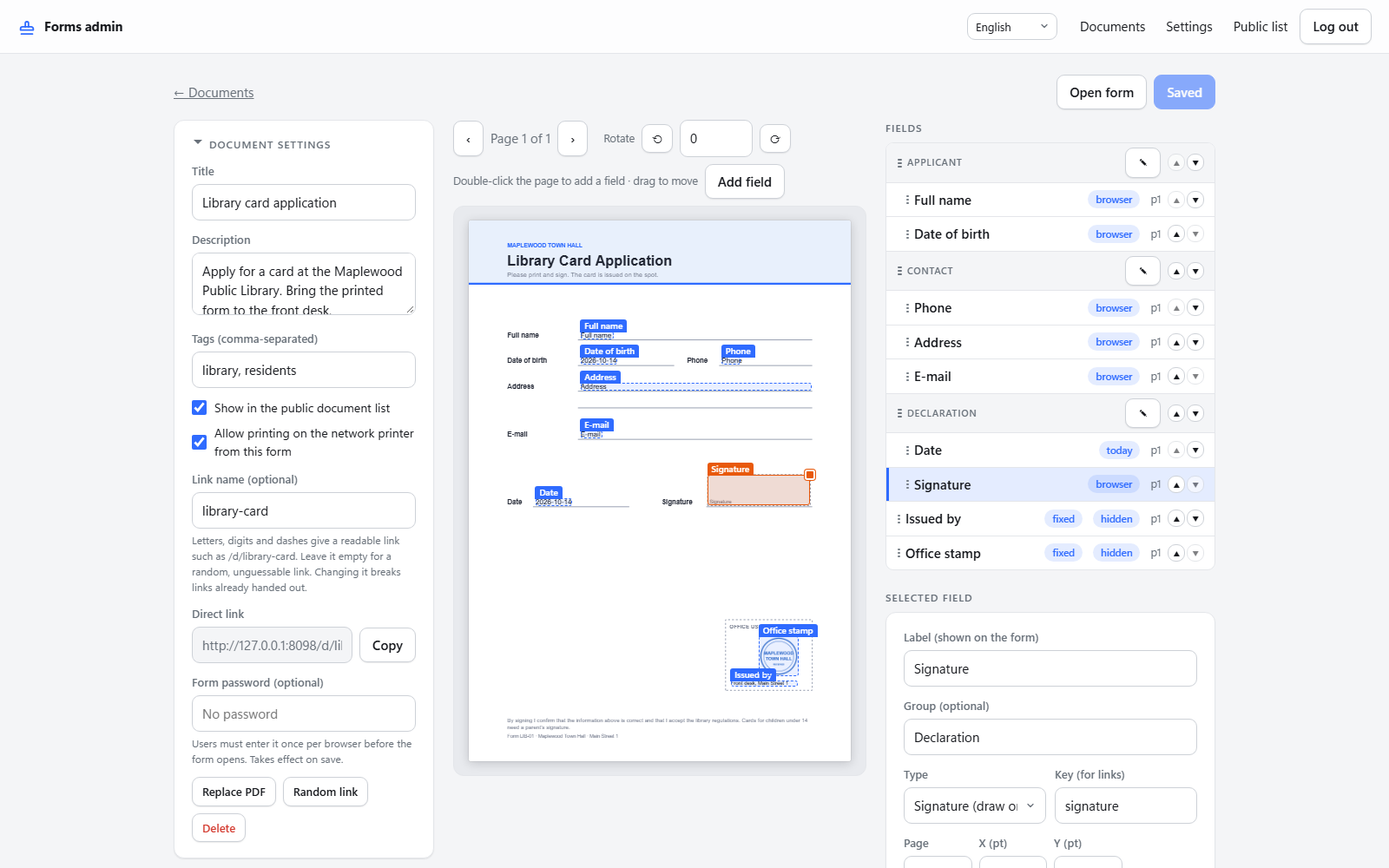
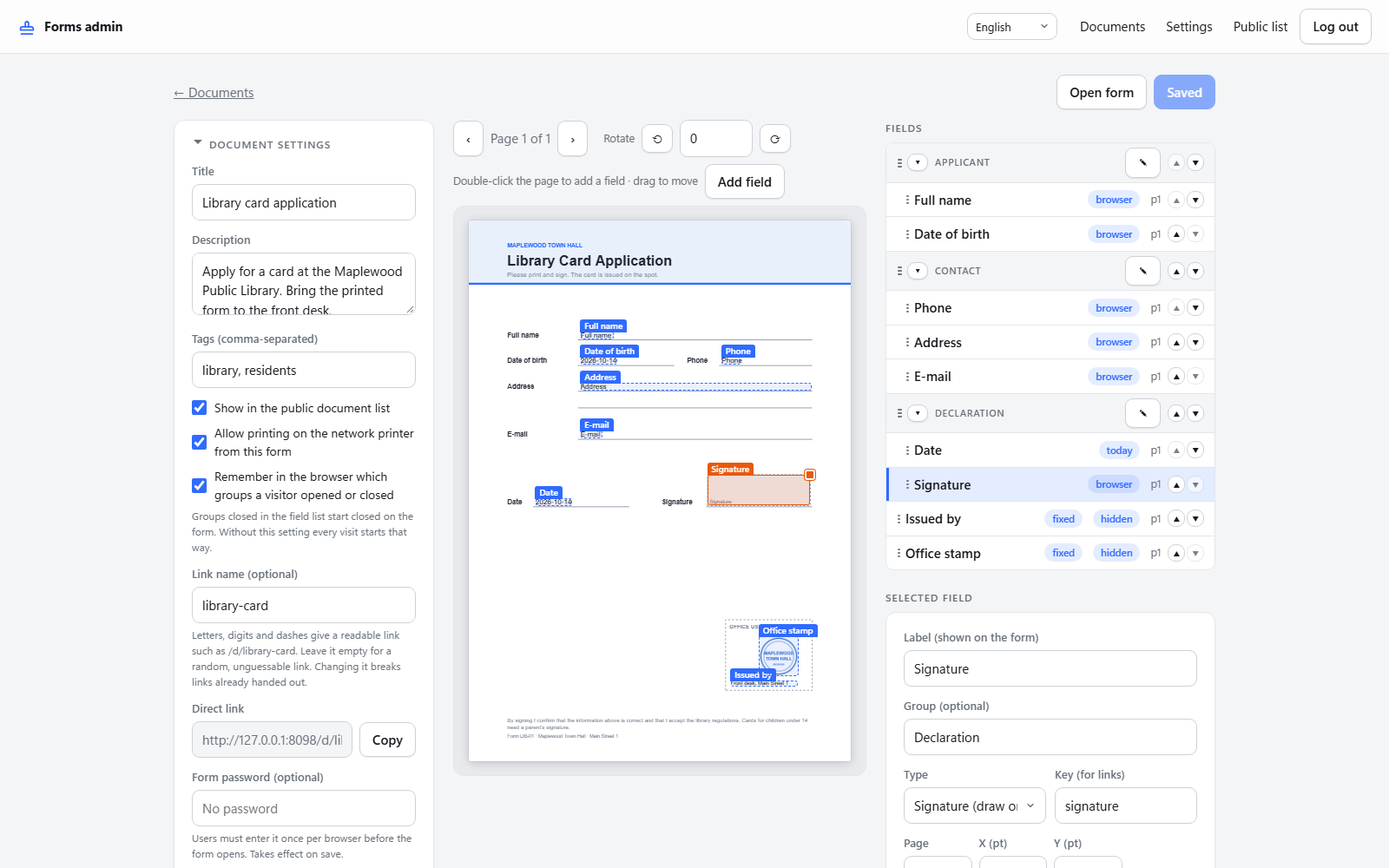
Foldable framed groups, group defaults per form, configurable retention
Groups on the form are framed blocks with a heading that folds and unfolds.
A group closed in the editor's field list starts closed on the form (stored
with the document); the per-form setting "Remember in the browser which
groups a visitor opened or closed" decides whether a visitor's own choice is
kept in their browser or every visit starts from the editor's defaults. A
folded group opens by itself when a required field in it is missing.

The number of days that remembered values stay in a visitor's browser is an
instance setting (30 by default) and the hints on the form show it.

Closes #59
Closes #60
Closes #61

diff --git a/stampfill.js b/stampfill.js
@@ -60,7 +60,7 @@ catch (e) {
   process.exit(1);
 }
 const rid = (n = 9) => crypto.randomBytes(n).toString('base64url');
-const DEFAULTS = { siteTitle: 'Forms', printerUrl: '', publicPrint: false, printButton: 'Print at home', language: 'en' };
+const DEFAULTS = { siteTitle: 'Forms', printerUrl: '', publicPrint: false, printButton: 'Print at home', language: 'en', rememberDays: 30 };
 const LANGS = ['en', 'de', 'tr', 'ar', 'ru', 'uk', 'el', 'pl']; // locales/<lang>.json; English is the source language
 const LOCALES = Object.fromEntries(LANGS.filter((l) => l !== 'en').map((l) => [l, fs.readFileSync(path.join(__dirname, 'locales', l + '.json'))]));
 let db = { secret: rid(32), auth: null, settings: { ...DEFAULTS }, docs: [] };
@@ -287,11 +287,14 @@ async function applyRotation(pdf, rotation) {
     pdf.removePage(i + 1);
   }
 }
+// groups that start folded on the form: names of groups that exist, each once
+const cleanCollapsed = (list, fields) => { const names = new Set(fields.map((f) => f.group).filter(Boolean)); return [...new Set((Array.isArray(list) ? list : []).filter((x) => typeof x === 'string').map((x) => str(x, 40).trim()).filter((x) => names.has(x)))]; };
 const cleanTags = (t) => [...new Set((Array.isArray(t) ? t : []).map((x) => str(x, 30).trim()).filter(Boolean))].slice(0, 20);
 const adminDoc = (d) => ({ ...d, password: undefined, protected: !!d.password });
 const publicDoc = (d, req) => ({
   title: d.title, description: d.description, tags: d.tags, siteTitle: db.settings.siteTitle,
   serverPrint: !!db.settings.printerUrl && d.serverPrint !== false && (db.settings.publicPrint || isAdmin(req)), printLabel: db.settings.printButton,
+  rememberDays: db.settings.rememberDays, collapsed: d.collapsed || [], rememberGroups: d.rememberGroups !== false,
   fields: d.fields.filter((f) => f.type !== 'static').map((f) => ({ key: f.key, label: f.label, group: f.group, type: f.type, required: f.required, hidden: f.hidden, prefill: f.prefill, value: f.prefill === 'instance' ? f.value : '' })),
 });
 async function inspectPdf(buf) {
@@ -587,7 +590,7 @@ async function route(req, res) {
       const b = await readJson(req), u = str(b.printerUrl, 500).trim();
       if (u && !/^(https?|ipps?):\/\/[^\s]+$/.test(u)) throw new HttpErr(400, 'Printer URL must start with http://, https://, ipp:// or ipps://');
       db.settings = { siteTitle: str(b.siteTitle, 60).trim() || 'Forms', printerUrl: u, publicPrint: !!b.publicPrint, printButton: str(b.printButton, 40).trim() || DEFAULTS.printButton,
-        language: LANGS.includes(b.language) ? b.language : 'en' }; save();
+        language: LANGS.includes(b.language) ? b.language : 'en', rememberDays: Math.round(num(b.rememberDays, 30, 1, 3650)) }; save();
       audit(req, 'settings.update', { printerUrl: u, publicPrint: db.settings.publicPrint });
     }
     if (m === 'GET' || m === 'PUT') return json(res, 200, db.settings);
@@ -614,7 +617,7 @@ async function route(req, res) {
     if (m === 'POST') {
       const buf = await readBody(req, MAX_PDF), pages = await inspectPdf(buf);
       const title = str(url.searchParams.get('title'), 120).trim() || 'Untitled';
-      const doc = { id: rid(8), slug: rid(10), title, description: '', tags: [], listed: false, serverPrint: true, password: null, pages, rotation: cleanRotation([], pages), fields: [], created: Date.now(), updated: Date.now() };
+      const doc = { id: rid(8), slug: rid(10), title, description: '', tags: [], listed: false, serverPrint: true, password: null, collapsed: [], rememberGroups: true, pages, rotation: cleanRotation([], pages), fields: [], created: Date.now(), updated: Date.now() };
       fs.writeFileSync(pdfPath(doc.id), buf, { mode: 0o600 }); db.docs.unshift(doc); save(); audit(req, 'doc.create', { doc: doc.id, title });
       return json(res, 200, adminDoc(doc));
     }
@@ -635,8 +638,9 @@ async function route(req, res) {
           if (pw && pw.length < 8) throw new HttpErr(400, 'The form password needs at least 8 characters');
           doc.password = pw ? await hashPwAsync(pw) : null; audit(req, pw ? 'doc.password.set' : 'doc.password.clear', { doc: doc.id });
         }
+        const fields = cleanFields(b.fields, doc.pages);
         Object.assign(doc, { title: str(b.title, 120).trim() || 'Untitled', description: str(b.description, 500).trim(), tags: cleanTags(b.tags), listed: !!b.listed, serverPrint: b.serverPrint !== false,
-          rotation: b.rotation !== undefined ? cleanRotation(b.rotation, doc.pages) : doc.rotation, fields: cleanFields(b.fields, doc.pages), updated: Date.now() });
+          rotation: b.rotation !== undefined ? cleanRotation(b.rotation, doc.pages) : doc.rotation, fields, collapsed: cleanCollapsed(b.collapsed, fields), rememberGroups: b.rememberGroups !== false, updated: Date.now() });
         save(); return json(res, 200, adminDoc(doc));
       }
       if (m === 'DELETE') {
@@ -669,6 +673,7 @@ function migrate() {
     doc.pages = Math.max(1, Math.round(num(doc.pages, 1, 1, 10000)));
     doc.fields = cleanFields(doc.fields, doc.pages); doc.rotation = cleanRotation(doc.rotation, doc.pages);
     if (doc.serverPrint === undefined) doc.serverPrint = true; if (doc.password === undefined) doc.password = null;
+    doc.collapsed = cleanCollapsed(doc.collapsed, doc.fields); if (doc.rememberGroups === undefined) doc.rememberGroups = true;
   }
   pruneImages(); save();
 }
@@ -695,13 +700,13 @@ if (require.main === module) {
   process.on('SIGTERM', shutdown); process.on('SIGINT', shutdown);
   start().catch((e) => { console.error(e.message); process.exit(1); });
 }
-module.exports = { start, server, db, DATA, IMAGES, IMG, LANGS, migrate, drawIcon, manifestFor, SW_JS, pdfCache, readTemplate, PDF_CACHE_MAX, AUDIT, AUDIT_MAX, audit, fails, authFails, pruneFails, imgDims, checkImage, ippParse, ippProbe, ippStatusText, keyOf, slugOf, fmtDate, toIso, cleanPrefill, cleanRotation, imgType, cleanFields, groupOrder, cleanTags, cleanValues, sampleValues, renderPdf, ippPrint, checkPw, hashPw, inspectPdf };
+module.exports = { start, server, db, DATA, IMAGES, IMG, LANGS, migrate, drawIcon, manifestFor, SW_JS, pdfCache, readTemplate, PDF_CACHE_MAX, AUDIT, AUDIT_MAX, audit, fails, authFails, pruneFails, imgDims, checkImage, ippParse, ippProbe, ippStatusText, keyOf, slugOf, fmtDate, toIso, cleanPrefill, cleanRotation, imgType, cleanFields, groupOrder, cleanCollapsed, cleanTags, cleanValues, sampleValues, renderPdf, ippPrint, checkPw, hashPw, inspectPdf };
 
 // ================================================================ front end
 // (client code below must not contain backticks or dollar-brace: it lives inside String.raw templates)
 const CSS = String.raw`
-:root{color-scheme:light dark;--bg:#f4f5f7;--card:#fff;--ink:#16181d;--mut:#687079;--line:#e4e6ea;--line2:#cdd1d7;--acc:#2f6bff;--acc-2:#1f57e6;--acc-ink:#fff;--acc-soft:rgba(47,107,255,.13);--bad:#d3372c;--bad-soft:rgba(211,55,44,.12);--ok:#1e8a4f;--paper:#e8eaee;--hdr:rgba(255,255,255,.82);--sh:0 1px 2px rgba(16,18,24,.06),0 1px 1px rgba(16,18,24,.03);--sh2:0 10px 28px rgba(16,18,24,.12),0 2px 6px rgba(16,18,24,.06);--r:12px;--rs:9px}
-@media(prefers-color-scheme:dark){:root{--bg:#111317;--card:#1a1d23;--ink:#e8eaee;--mut:#99a1ab;--line:#292e36;--line2:#3b414b;--acc:#6f9cff;--acc-2:#8ab0ff;--acc-ink:#0a1430;--acc-soft:rgba(111,156,255,.18);--bad:#ff7b70;--bad-soft:rgba(255,123,112,.16);--ok:#5fd08f;--paper:#0c0e12;--hdr:rgba(26,29,35,.82);--sh:0 1px 2px rgba(0,0,0,.45);--sh2:0 12px 32px rgba(0,0,0,.55)}}
+:root{color-scheme:light dark;--bg:#f4f5f7;--card:#fff;--ink:#16181d;--mut:#687079;--line:#e4e6ea;--line2:#cdd1d7;--acc:#2f6bff;--acc-2:#1f57e6;--acc-ink:#fff;--acc-soft:rgba(47,107,255,.13);--bad:#d3372c;--bad-soft:rgba(211,55,44,.12);--ok:#1e8a4f;--paper:#e8eaee;--hdr:rgba(255,255,255,.82);--sh:0 1px 2px rgba(16,18,24,.06),0 1px 1px rgba(16,18,24,.03);--sh2:0 10px 28px rgba(16,18,24,.12),0 2px 6px rgba(16,18,24,.06);--r:12px;--rs:9px;--grp:rgba(47,107,255,.05)}
+@media(prefers-color-scheme:dark){:root{--bg:#111317;--card:#1a1d23;--ink:#e8eaee;--mut:#99a1ab;--line:#292e36;--line2:#3b414b;--acc:#6f9cff;--acc-2:#8ab0ff;--acc-ink:#0a1430;--acc-soft:rgba(111,156,255,.18);--bad:#ff7b70;--bad-soft:rgba(255,123,112,.16);--ok:#5fd08f;--paper:#0c0e12;--hdr:rgba(26,29,35,.82);--sh:0 1px 2px rgba(0,0,0,.45);--sh2:0 12px 32px rgba(0,0,0,.55);--grp:rgba(111,156,255,.08)}}
 *{box-sizing:border-box}html{-webkit-text-size-adjust:100%;scroll-padding-top:72px}
 body{margin:0;background:var(--bg);color:var(--ink);font:15px/1.5 Inter,"Segoe UI Variable Text",system-ui,-apple-system,"Segoe UI",Roboto,sans-serif;-webkit-font-smoothing:antialiased}
 header{position:sticky;top:0;z-index:5;display:flex;gap:16px;align-items:center;padding:10px 20px;border-bottom:1px solid var(--line);background:var(--hdr);backdrop-filter:saturate(180%) blur(14px);-webkit-backdrop-filter:saturate(180%) blur(14px)}
@@ -780,7 +785,12 @@ details.panel[open]>summary::before{transform:rotate(90deg)}details.panel:not([o
 .fgroup{padding:5px 12px;font-size:11px;font-weight:600;text-transform:uppercase;letter-spacing:.06em;color:var(--mut);background:var(--bg);border-bottom:1px solid var(--line)}
 h2.fgroup{padding:0;background:none;border:0;margin:18px 0 2px;font-size:12px}
 .fitem.over,.flist .fgroup.over{box-shadow:inset 0 2px 0 var(--acc)}.flist .fgroup{display:flex;align-items:center;gap:8px}.flist .fgroup .gname{flex:1;overflow:hidden;text-overflow:ellipsis;white-space:nowrap}.flist .fgroup .grip{cursor:grab}.fitem.ing{padding-left:22px}
-.fsep{border:0;border-top:1px solid var(--line);margin:18px 0 4px}#installBtn{display:inline-flex;align-items:center;gap:6px;white-space:nowrap}#installBtn .ico{display:inline-flex}.grip{color:var(--mut);cursor:grab;font-size:13px;letter-spacing:-3px;user-select:none}
+.fgrp{border:1px solid var(--line2);border-radius:var(--rs);padding:2px 14px 14px;margin-top:16px;background:var(--grp)}.fgrp h2.fgroup{margin:0}.fgrp.closed{padding-bottom:2px}.fgrp.closed .gbody{display:none}
+.gtog{all:unset;box-sizing:border-box;cursor:pointer;display:flex;align-items:center;gap:9px;width:100%;padding:10px 0;font:inherit;font-size:12px;font-weight:600;text-transform:uppercase;letter-spacing:.06em;color:var(--mut)}
+.gtog:hover{color:var(--ink)}.gtog:focus-visible{outline:2px solid var(--acc);outline-offset:2px;border-radius:4px}
+.gtog::before{content:'';flex:none;width:7px;height:7px;border-right:1.7px solid currentColor;border-bottom:1.7px solid currentColor;transform:translateY(-2px) rotate(45deg);transition:transform .15s}
+.fgrp.closed .gtog::before{transform:rotate(-45deg)}[dir=rtl] .fgrp.closed .gtog::before{transform:rotate(135deg)}.gbody>div:first-child>label{margin-top:4px}
+.flist .fgroup .gfold{min-width:24px;font-size:14px;line-height:18px;padding:0 4px}.flist .fgroup.closed{border-bottom:1px solid var(--line)}#installBtn{display:inline-flex;align-items:center;gap:6px;white-space:nowrap}#installBtn .ico{display:inline-flex}.grip{color:var(--mut);cursor:grab;font-size:13px;letter-spacing:-3px;user-select:none}
 .ord{display:flex;gap:2px}.ord button.tiny{padding:0 5px;font-size:9px;line-height:18px;box-shadow:none}
 .fitem{display:flex;gap:8px;align-items:center;padding:8px 12px;border-bottom:1px solid var(--line);cursor:pointer;transition:background .12s}.fitem:hover{background:var(--bg)}
 .fitem:last-child{border-bottom:0}.fitem.on{background:var(--acc-soft);box-shadow:inset 3px 0 0 var(--acc)}.fitem b{flex:1;font-weight:500;overflow:hidden;text-overflow:ellipsis;white-space:nowrap}
@@ -943,7 +953,7 @@ async function formView() {
   }
   // values from the link: only #key=value, which never leaves the browser (a query string would reach server and proxy logs)
   const fromUrl = new URLSearchParams(location.hash.slice(1));
-  const LS = 'stampfill:', TTL = 30 * 86400000; // remembered values expire after 30 days
+  const LS = 'stampfill:', DAYS = doc.rememberDays || 30, TTL = DAYS * 86400000; // remembered values expire after the instance's number of days
   const IMG = t => t === 'image' || t === 'signature';
   const store = {
     get(k) {
@@ -962,16 +972,24 @@ async function formView() {
   const get = f => f.type === 'checkbox' ? (inputs[f.key].checked ? '1' : '') : inputs[f.key].value;
   const put = (f, v) => { if (IMG(f.type)) inputs[f.key].set(v); else if (f.type === 'checkbox') inputs[f.key].checked = !!v && v !== '0' && v !== 'false'; else inputs[f.key].value = f.type === 'date' ? toIso(v) : v; };
   const values = () => Object.fromEntries(doc.fields.map(f => [f.key, get(f)]));
-  const HINT = { browser: t('Remembered on this device for 30 days'), url: t('Can be carried in a link'), instance: '', today: t("Today's date") };
+  const HINT = { browser: t('Remembered on this device for {n} days').replace('{n}', DAYS), url: t('Can be carried in a link'), instance: '', today: t("Today's date") };
   const today = () => { const d = new Date(); return new Date(d.getTime() - d.getTimezoneOffset() * 60000).toISOString().slice(0, 10); };
   const toIso = v => { const m = /^(\d{1,2})[./-](\d{1,2})[./-](\d{4})$/.exec(String(v).trim()); return m ? m[3] + '-' + m[2].padStart(2, '0') + '-' + m[1].padStart(2, '0') : v; };
 
   const form = h('div', { class: 'panel' });
-  let lastGroup = '';
-  const groupHead = f => { if (f.hidden) return; const g = f.group || ''; if (g === lastGroup) return; lastGroup = g; form.append(g ? h('h2', { class: 'fgroup' }, g) : h('hr', { class: 'fsep' })); }; // a heading per group, a rule where loose fields follow one
+  // groups are framed, foldable blocks; a group starts folded when the editor says so, unless this browser remembers the visitor's own choice
+  const remembered = doc.rememberGroups ? store.get('groups:' + slug) : null, gmem = remembered && typeof remembered === 'object' ? remembered : {};
+  const section = g => {
+    const sec = h('section', { class: 'fgrp' + ((g in gmem ? gmem[g] : doc.collapsed.includes(g)) ? ' closed' : '') }), body = h('div', { class: 'gbody' });
+    const tog = h('button', { type: 'button', class: 'gtog', onclick: () => { const closed = sec.classList.toggle('closed'); tog.setAttribute('aria-expanded', String(!closed)); if (doc.rememberGroups) { gmem[g] = closed; store.set('groups:' + slug, gmem); } } }, g);
+    tog.setAttribute('aria-expanded', String(!sec.classList.contains('closed')));
+    sec.append(h('h2', { class: 'fgroup' }, tog), body); form.append(sec); return body;
+  };
+  let box = form, boxGroup = '';
+  const place = f => { if (f.hidden) return box; const g = f.group || ''; if (g !== boxGroup) { boxGroup = g; box = g ? section(g) : form; } return box; }; // hidden fields never open a group
   for (const f of doc.fields) {
-    groupHead(f);
-    if (IMG(f.type)) { form.append(rows[f.key] = imageRow(f)); continue; }
+    const at = place(f);
+    if (IMG(f.type)) { at.append(rows[f.key] = imageRow(f)); continue; }
     const inp = inputs[f.key] = f.type === 'textarea' ? h('textarea', { rows: 3 }) : h('input', { type: f.type === 'checkbox' ? 'checkbox' : f.type === 'date' ? 'date' : 'text' });
     inp.id = 'f_' + f.key;
     const saved = f.prefill === 'browser' ? store.get(f.key) : null;
@@ -981,7 +999,7 @@ async function formView() {
     rows[f.key] = f.type === 'checkbox'
       ? h('div', {}, h('label', { class: 'chk', style: 'margin-top:12px' }, inp, name), HINT[f.prefill] && h('div', { class: 'hint' }, HINT[f.prefill]))
       : h('div', {}, h('label', { htmlFor: inp.id }, name), inp, HINT[f.prefill] && h('div', { class: 'hint' }, HINT[f.prefill]));
-    form.append(rows[f.key]);
+    at.append(rows[f.key]);
   }
   for (const f of doc.fields) if (f.hidden && rows[f.key]) rows[f.key].style.display = 'none'; // hidden fields keep their value and are still printed
   if (doc.fields.length && doc.fields.every(f => f.hidden)) form.append(h('p', { class: 'muted' }, t('Nothing to fill in here — just print or download.')));
@@ -1004,7 +1022,7 @@ async function formView() {
     st.set(saved || '');
     const hint = f.prefill === 'instance' && f.value ? t('A default image is provided; you can replace it') : f.prefill === 'browser' ? '' : HINT[f.prefill];
     return h('div', {}, h('label', { htmlFor: file.id }, f.label + (f.required ? ' *' : '')), h('div', { class: 'imgbox' }, thumb, h('div', { class: 'row' }, draw, pick, clear, file)),
-      rem && h('label', { class: 'chk small', style: 'margin-top:6px' }, rem, t('Remember on this device (30 days)')), hint && h('div', { class: 'hint' }, hint));
+      rem && h('label', { class: 'chk small', style: 'margin-top:6px' }, rem, t('Remember on this device ({n} days)').replace('{n}', DAYS)), hint && h('div', { class: 'hint' }, hint));
   }
   // a drawing pad for signatures: pointer and touch, smoothed strokes, trimmed to the ink with a transparent background
   function sigPad(done) {
@@ -1058,7 +1076,7 @@ async function formView() {
   function schedule() { clearTimeout(timer); timer = setTimeout(() => refresh().catch(fail), 200); }
   function complete() {
     const miss = doc.fields.filter(f => f.required && !f.hidden && !get(f) && !(IMG(f.type) && f.prefill === 'instance' && f.value));
-    miss.forEach(f => rows[f.key].classList.add('bad'));
+    miss.forEach(f => { rows[f.key].classList.add('bad'); const sec = rows[f.key].closest('.fgrp.closed'); if (sec) sec.querySelector('.gtog').click(); }); // a folded group opens to show what is missing
     if (miss.length) { toast(t('Please fill in: ') + miss.map(f => f.label).join(', '), true); inputs[miss[0].key].focus(); }
     return !miss.length;
   }
@@ -1199,12 +1217,15 @@ async function settingsView() {
   const title = h('input', { type: 'text', value: s.siteTitle }), purl = h('input', { type: 'url', value: s.printerUrl, placeholder: 'http://cups-host:631/printers/NAME' });
   const pub = h('input', { type: 'checkbox', checked: s.publicPrint }), pbtn = h('input', { type: 'text', value: s.printButton, placeholder: 'Print at home', maxLength: 40 });
   const ptest = h('div', { class: 'hint', id: 'ptest' });
+  const remDays = h('input', { type: 'number', id: 'remDays', min: 1, max: 3650, step: 1, value: s.rememberDays || 30, style: 'width:140px' });
   const langSel = h('select', { id: 'defLang' }, Object.entries(LANGS).map(([k, n]) => h('option', { value: k, selected: (s.language || 'en') === k }, n)));
   const cur = h('input', { type: 'password', autocomplete: 'current-password' }), nxt = h('input', { type: 'password', autocomplete: 'new-password' });
   app.append(h('h1', {}, t('Settings')), h('div', { class: 'panel', style: 'max-width:560px' },
     h('label', {}, t('Site title')), title,
     h('label', {}, t('Default language')), langSel,
     h('div', { class: 'hint' }, t('Used when a visitor\'s browser language is not available. Everyone can switch languages in the header.')),
+    h('label', {}, t('Days remembered values are kept in the browser')), remDays,
+    h('div', { class: 'hint' }, t('Values a form remembers on a device expire after this many days; 30 by default.')),
     h('label', {}, t('Network printer (IPP / CUPS URL, optional)')), h('div', { class: 'row' }, h('div', { class: 'grow' }, purl), h('button', { onclick: async e => {
       const b = e.currentTarget; b.disabled = true; ptest.className = 'hint'; ptest.textContent = t('Asking the printer…');
       try {
@@ -1218,7 +1239,7 @@ async function settingsView() {
     h('div', { class: 'hint' }, t('Adds a button to every form that prints on this printer from the server. The printer must accept PDF; a CUPS queue converts for printers that do not. Each document can switch the button off.')),
     h('label', {}, t('Label of that button')), pbtn,
     h('label', { class: 'chk', style: 'margin-top:12px' }, pub, t('Let everyone with a document link use this printer (otherwise only while logged in as admin)')),
-    h('div', { style: 'margin-top:14px' }, h('button', { class: 'pri', onclick: async () => { try { await api('PUT', '/api/admin/settings', { siteTitle: title.value, printerUrl: purl.value, publicPrint: pub.checked, printButton: pbtn.value, language: langSel.value }); toast(t('Saved')); } catch (e) { fail(e); } } }, t('Save settings')))),
+    h('div', { style: 'margin-top:14px' }, h('button', { class: 'pri', onclick: async () => { try { await api('PUT', '/api/admin/settings', { siteTitle: title.value, printerUrl: purl.value, publicPrint: pub.checked, printButton: pbtn.value, language: langSel.value, rememberDays: remDays.value }); toast(t('Saved')); } catch (e) { fail(e); } } }, t('Save settings')))),
     h('h2', {}, t('Sessions')),
     h('div', { class: 'panel', style: 'max-width:560px' },
       h('p', { class: 'muted small', style: 'margin:0 0 10px' }, t('Admin sessions last 12 hours of inactivity. Signing out everywhere also closes every unlocked form in every browser.')),
@@ -1319,6 +1340,7 @@ async function editView(id) {
   const readable = s => /^[a-z0-9-]+$/.test(s) ? s : ''; let slugInit = readable(d.slug); // random links are not shown as a name
   const slugIn = h('input', { type: 'text', id: 'slugIn', value: slugInit, spellcheck: false, placeholder: t('empty = random link'), oninput: () => { link.value = location.origin + '/d/' + (slugOf(slugIn.value) || '(random)'); mark(); } });
   const allowPrint = h('input', { type: 'checkbox', checked: d.serverPrint !== false, onchange: mark });
+  const rememberGroups = h('input', { type: 'checkbox', checked: d.rememberGroups !== false, onchange: mark });
   let dropPw = false;
   const pwIn = h('input', { type: 'text', autocomplete: 'off', spellcheck: false, placeholder: d.protected ? t('Password set — type a new one to change it') : t('No password'), oninput: () => { dropPw = false; mark(); } });
   const pwDrop = h('button', { class: 'small', style: d.protected ? '' : 'display:none', onclick: () => { dropPw = true; pwIn.value = ''; pwIn.placeholder = t('Password will be removed on save'); mark(); } }, t('Remove'));
@@ -1333,7 +1355,7 @@ async function editView(id) {
   } });
   async function save() {
     try {
-      const body = { title: title.value, description: desc.value, tags: tags.value.split(','), listed: listed.checked, serverPrint: allowPrint.checked, rotation: d.rotation, fields: d.fields };
+      const body = { title: title.value, description: desc.value, tags: tags.value.split(','), listed: listed.checked, serverPrint: allowPrint.checked, rotation: d.rotation, fields: d.fields, collapsed: d.collapsed || [], rememberGroups: rememberGroups.checked };
       if (slugIn.value !== slugInit) body.slug = slugIn.value;
       if (dropPw) body.password = ''; else if (pwIn.value) body.password = pwIn.value;
       d = await api('PUT', '/api/admin/docs/' + id, body);
@@ -1351,7 +1373,7 @@ async function editView(id) {
     const rest = d.fields.filter(x => x !== f); f.group = group; rest.splice(rest.indexOf(before), 0, f); d.fields = rest; commit(blocks());
   };
   const dropGroup = (g, beforeBlock) => { const bs = blocks(), from = bs.findIndex(b => b[0].group === g); if (from < 0 || bs[from] === beforeBlock) return; const [b] = bs.splice(from, 1); bs.splice(bs.indexOf(beforeBlock), 0, b); commit(bs); };
-  const renameGroup = (g) => { const v = prompt(t('Group name (empty removes the group)'), g); if (v == null) return; d.fields.forEach(f => { if (f.group === g) f.group = v.trim().slice(0, 40); }); commit(blocks()); };
+  const renameGroup = (g) => { const r = prompt(t('Group name (empty removes the group)'), g); if (r == null) return; const v = r.trim().slice(0, 40); d.fields.forEach(f => { if (f.group === g) f.group = v; }); d.collapsed = (d.collapsed || []).map(x => x === g ? v : x).filter(Boolean); commit(blocks()); };
   const dnd = (onDrop) => ({ // drop target behaviour shared by field rows and group headings
     ondragover: e => { e.preventDefault(); e.dataTransfer.dropEffect = 'move'; e.currentTarget.classList.add('over'); },
     ondragleave: e => e.currentTarget.classList.remove('over'),
@@ -1363,12 +1385,16 @@ async function editView(id) {
     const items = [], bs = blocks();
     bs.forEach((b, bi) => {
       const g = b[0].group || '', grouped = !!g;
-      if (grouped) items.push(h('div', { class: 'fgroup', draggable: true, ondragstart: dragStart({ group: g }), ...dnd(dg => dg.field ? dropField(dg.field, b[0], g) : dropGroup(dg.group, b)) },
-        h('span', { class: 'grip', title: t('Drag to reorder') }, '⋮⋮'), h('span', { class: 'gname' }, g),
+      const closed = grouped && (d.collapsed || []).includes(g);
+      if (grouped) items.push(h('div', { class: 'fgroup' + (closed ? ' closed' : ''), draggable: true, ondragstart: dragStart({ group: g }), ...dnd(dg => dg.field ? dropField(dg.field, b[0], g) : dropGroup(dg.group, b)) },
+        h('span', { class: 'grip', title: t('Drag to reorder') }, '⋮⋮'),
+        h('button', { class: 'tiny gfold', title: t('Closed groups start closed on the form'), 'aria-expanded': String(!closed), onclick: () => { d.collapsed = closed ? d.collapsed.filter(x => x !== g) : [...(d.collapsed || []), g]; mark(); flist(); } }, closed ? '▸' : '▾'),
+        h('span', { class: 'gname' }, g), closed && h('span', { class: 'muted small' }, '(' + b.length + ')'),
         h('button', { class: 'tiny', title: t('Rename group'), onclick: () => renameGroup(g) }, '✎'),
         h('span', { class: 'ord' },
           h('button', { class: 'tiny', title: t('Move group up'), disabled: bi === 0, onclick: () => moveBlock(bi, -1) }, '▲'),
           h('button', { class: 'tiny', title: t('Move group down'), disabled: bi === bs.length - 1, onclick: () => moveBlock(bi, 1) }, '▼'))));
+      if (closed) return; // folded in the list as well
       b.forEach((f, i) => {
         const up = grouped ? i > 0 : bi > 0, down = grouped ? i < b.length - 1 : bi < bs.length - 1; // grouped fields move within their group, loose ones past whole groups
         const mv = delta => grouped ? moveField(bi, i, delta) : moveBlock(bi, delta);
@@ -1446,6 +1472,8 @@ async function editView(id) {
           h('label', {}, t('Title')), title, h('label', {}, t('Description')), desc, h('label', {}, t('Tags (comma-separated)')), tags,
           h('label', { class: 'chk', style: 'margin-top:12px' }, listed, t('Show in the public document list')),
           h('label', { class: 'chk', style: 'margin-top:8px' }, allowPrint, t('Allow printing on the network printer from this form')),
+          h('label', { class: 'chk', style: 'margin-top:8px' }, rememberGroups, t('Remember in the browser which groups a visitor opened or closed')),
+          h('div', { class: 'hint' }, t('Groups closed in the field list start closed on the form. Without this setting every visit starts that way.')),
           h('label', {}, t('Link name (optional)')), slugIn,
           h('div', { class: 'hint' }, t('Letters, digits and dashes give a readable link such as /d/library-card. Leave it empty for a random, unguessable link. Changing it breaks links already handed out.')),
           h('label', {}, t('Direct link')), h('div', { class: 'row' }, h('div', { class: 'grow' }, link), h('button', { onclick: () => copyText(link.value) }, t('Copy'))),

diff --git a/test/e2e/stampfill.spec.js b/test/e2e/stampfill.spec.js
@@ -200,10 +200,13 @@ test('fields can be grouped and reordered; groups are blocks that move as one', 
   await expect(admin.locator('.flist .fgroup .gname')).toHaveText(['Applicant', 'Sign-off']);
   dialogAnswer = 'Consent'; await heading('Sign-off').locator('button[title="Rename group"]').click(); dialogAnswer = 'accept';
   await expect(admin.locator('.flist .fgroup .gname')).toHaveText(['Applicant', 'Consent']);
+  await heading('Consent').locator('button.gfold').click(); // folded here = starts folded on the form
+  await expect(item('Signature')).toHaveCount(0); await expect(heading('Consent')).toContainText('(2)');
   await expect(admin.locator('button.pri')).toHaveText('Save changes');
   await admin.click('button.pri'); await expect(admin.locator('button.pri')).toHaveText('Saved');
   await admin.reload(); await expect(admin.locator('.mk')).toHaveCount(10);
   expect((await order()).slice(0, 2)).toEqual(['Full name', 'Address']); // the order is saved
+  await expect(heading('Consent')).toHaveClass(/closed/); // and so is the fold
 });
 
 test('admin saves metadata and gets a direct link', async () => {
@@ -268,6 +271,7 @@ test('admin configures the network printer', async () => {
   await expect(admin.locator('#ptest')).toContainText('Mock IPP printer — idle');
   await expect(admin.locator('#ptest')).toContainText('Takes PDF');
   await admin.fill('input[placeholder="Print at home"]', 'Print at school');
+  await admin.fill('#remDays', '45');
   await admin.locator('label.chk input').check();
   await admin.click('button.pri'); await expect(admin.locator('#toast')).toHaveText('Saved');
   await shot(admin, '3-settings');
@@ -315,7 +319,8 @@ test('form prefills from the link and from fixed values, validates required fiel
   await expect(user.locator('#f_footer')).toHaveCount(0); // fixed text has no input
   await expect(user.locator('.panel label')).toHaveCount(10); // 9 fields plus "Remember on this device" of the signature
   await expect(user.locator('.panel h2.fgroup')).toHaveText(['Applicant', 'Consent']); // group headings in field order
-  await expect(user.locator('.panel hr.fsep')).toHaveCount(1); // a rule where loose fields follow a group
+  await expect(user.locator('.fgrp')).toHaveCount(2); await expect(user.locator('.fgrp.closed h2')).toHaveText('Consent'); // framed; folded as the editor says
+  await expect(user.locator('#f_full_name ~ .hint')).toHaveText('Remembered on this device for 45 days'); // the retention from Settings
   expect(await user.locator('.panel label:not(.chk)').allTextContents()).toEqual(expect.arrayContaining(['Full name *', 'Address']));
   await expect(user.locator('.panel label').first()).toHaveText('Full name *');
   await expect(user.locator('input.remember')).not.toBeChecked(); // pictures are not remembered unless asked
@@ -354,9 +359,12 @@ test('form prefills from the link and from fixed values, validates required fiel
   await expect(user.locator('.imgbox:has(#f_stamp) .thumb')).toBeVisible(); // the admin's default stamp
   await expect(user.getByText('A default image is provided')).toBeVisible();
   await expect(user.locator('#f_full_name')).toHaveValue('');
-  await user.click('button.pri'); // Print with the required field empty
+  await user.locator('.fgrp', { hasText: 'Applicant' }).locator('.gtog').click(); await expect(user.locator('.fgrp.closed')).toHaveCount(2);
+  await user.click('button.pri'); // Print with the required field empty, inside a folded group
   await expect(user.locator('#toast.bad')).toContainText('Please fill in: Full name');
-  await expect(user.locator('#f_full_name')).toBeFocused();
+  await expect(user.locator('#f_full_name')).toBeFocused(); await expect(user.locator('.fgrp.closed')).toHaveCount(1); // the group opened to show it
+  await user.locator('.fgrp.closed .gtog').click(); await expect(user.locator('.fgrp.closed')).toHaveCount(0); // open "Consent" for the signature
+  await expect(user.locator('label.chk.small')).toContainText('(45 days)');
   await settle(user, async () => {
     await user.fill('#f_full_name', 'Jürgen Müller-Weiß'); await user.fill('#f_date', '2026-10-13');
     await user.fill('#f_address', 'Hauptstraße 12\n74321 Bietigheim-Bissingen');
@@ -409,6 +417,7 @@ test('"Copy link with values" carries only URL-prefill fields', async () => {
 test('browser-remembered values survive a reload, link values do not', async () => {
   await user.goto(link);
   await expect(user.locator('.preview canvas')).toBeVisible();
+  await expect(user.locator('.fgrp.closed')).toHaveCount(0); // the opened groups are remembered in this browser too
   await expect(user.locator('#f_full_name')).toHaveValue('Jürgen Müller-Weiß');
   await expect(user.locator('#f_address')).toHaveValue(/74321/);
   await expect(user.locator('#f_reference')).toHaveValue('');

diff --git a/test/unit/api.test.js b/test/unit/api.test.js
@@ -352,6 +352,19 @@ test('the audit log records admin actions and print jobs without form values', a
   assert.ok(log.every((e) => e.t && e.ip));
 });
 
+test('group folding and the retention period round-trip and reach the form', async () => {
+  const put = async (rememberDays) => (await (await call('PUT', '/api/admin/settings', { siteTitle: 'My forms', rememberDays })).json()).rememberDays;
+  assert.equal(await put('x'), 30, 'default'); assert.equal(await put(99999), 3650, 'clamped'); assert.equal(await put(45.4), 45);
+  const d = await (await call('POST', '/api/admin/docs?title=Folded', SAMPLE)).json(); assert.deepEqual(d.collapsed, []); assert.equal(d.rememberGroups, true);
+  const fields = [{ label: 'A', group: 'One' }, { label: 'B', group: 'Two' }, { label: 'C' }];
+  const u = await (await call('PUT', '/api/admin/docs/' + d.id, { ...d, fields, collapsed: ['Two', 'Gone', 'Two', 7], rememberGroups: false })).json();
+  assert.deepEqual(u.collapsed, ['Two'], 'only groups that exist, each once'); assert.equal(u.rememberGroups, false);
+  const pub = await (await fetch(base + '/api/d/' + u.slug)).json();
+  assert.deepEqual(pub.collapsed, ['Two']); assert.equal(pub.rememberGroups, false); assert.equal(pub.rememberDays, 45);
+  const back = await (await call('PUT', '/api/admin/docs/' + d.id, { ...d })).json(); assert.deepEqual(back.collapsed, []); assert.equal(back.rememberGroups, true, 'defaults when absent');
+  await call('DELETE', '/api/admin/docs/' + d.id);
+});
+
 test('logout clears the session; repeated failures are rate limited per client IP', async () => {
   const r = await call('POST', '/api/logout'); assert.match(r.headers.get('set-cookie'), /Max-Age=0/);
   cookie = ''; assert.equal((await call('GET', '/api/admin/me')).status, 401);

diff --git a/test/unit/migrate.test.js b/test/unit/migrate.test.js
@@ -79,3 +79,8 @@ test('documents saved by 1.1.0 with scattered group members are reordered into b
   assert.deepEqual(doc.fields.map((f) => f.key), ['g1aa', 'g1bb', 'loose']);
   doc.fields = was; app.migrate();
 });
+
+test('older documents get the group folding defaults and the retention default', () => {
+  assert.equal(app.db.settings.rememberDays, 30);
+  for (const d of app.db.docs) { assert.deepEqual(d.collapsed, []); assert.equal(d.rememberGroups, true); }
+});

diff --git a/CHANGELOG.md b/CHANGELOG.md
@@ -21,6 +21,12 @@ All notable changes to this project are documented here. The format follows
 ### Changed
 - Fields of one group are always kept together, at the position of the group's first field.
   Existing documents are reordered that way on start; the relative order within a group is kept.
+- Groups on the form are framed blocks that fold and unfold. A group closed in the editor's field
+  list starts closed on the form; a per-form setting decides whether a visitor's own choice is
+  remembered in their browser. A folded group opens by itself when a required field in it is
+  missing. (#59, #60)
+- The number of days that remembered values stay in a visitor's browser is a setting (30 by
+  default); the hints on the form show the configured value. (#61)
 - The README is a short overview again; deployment, printing and the screenshots moved to
   `docs/deploy.md`, `docs/printing.md` and `docs/screenshots.md`. (#58)
 

diff --git a/README.md b/README.md
@@ -19,7 +19,7 @@ household. [More screenshots](docs/screenshots.md).
 - **Prefill**: a field can be remembered in the visitor's browser, fixed by the admin, carried in
   the link (`/d/<link>#key=value`), or default to today's date.
 - **Groups and order**: fields appear in the order of the editor's list. A group name becomes a
-  heading on the form; groups move as blocks, fields move within them.
+  heading on the form; groups are framed blocks that fold, move as units and can start closed.
 - **Printing**: browser print, PDF download, and server-side printing to any IPP printer or CUPS
   queue with a button the admin can rename and switch off per form.
 - **Sharing**: unguessable random links by default, readable link names on request, an optional

diff --git a/docs/security.md b/docs/security.md
@@ -92,7 +92,7 @@ jobs capped at 5 copies, and request header and body timeouts.
 ([ADR 0006](adr/0006-prefill-in-the-browser.md)) keeps that data out of the server. On a shared
 computer it was still handed to the next person. Fixed: pictures and signatures are only
 remembered after the user ticks "Remember on this device", everything remembered expires after
-30 days, the form says so next to each remembered field, and "Forget saved values" clears it all.
+30 days by default (a setting), the form says so next to each remembered field, and "Forget saved values" clears it all.
 
 ### 6 and 7. Passwords and sessions (medium, #29, #30)
 

diff --git a/docs/deploy.md b/docs/deploy.md
@@ -56,7 +56,8 @@ All state is in the data directory (`stampfill-data` in Compose, `DATA_DIR` othe
 
 Nothing else is kept on the server, so backing up that directory is a complete backup. It holds
 the signing secret and password hashes, so treat backups as secrets. Values visitors chose to
-remember live in their own browsers only, for 30 days.
+remember live in their own browsers only, for 30 days by default (the number of days is a
+setting).
 
 ## Upgrades
 
